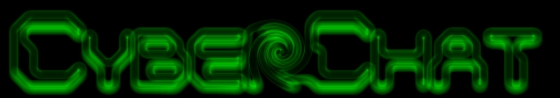
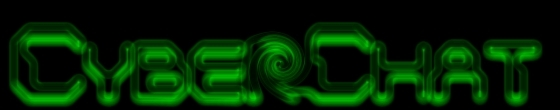
fixed bad image position in opera and ie(which doesnt work at all :)

diff --git a/views/style.sass b/views/style.sass
@@ -2,7 +2,7 @@ body
 	.cyberchat
 		position: absolute
 		left: 0px
-		top: -30px
+		top: -20px
 		box-shadow: -28px -2px 8px #008000
 		-moz-box-shadow: -28px -2px 8px #008000
 		-webkit-box-shadow: -28px -2px 8px #008000
@@ -20,8 +20,8 @@ body
 			-moz-box-shadow: -23px 0px 8px #000080
 	.cyber
 		position: absolute
-		left: 0px
-		top: -23px
+		left: -5px
+		top: -20px
 		box-shadow: -28px -2px 8px #008000
 		-moz-box-shadow: -28px -2px 8px #008000
 		-webkit-box-shadow: -28px -2px 8px #008000
@@ -41,7 +41,7 @@ body
 		color: #000000
 		position: absolute
 		left: 20px
-		top: 200px
+		top: 210px
 		font-family: "chintzy cpu brk"
 		font-size: 300%
 		text-shadow: 0px -5px 5px #00CC00
